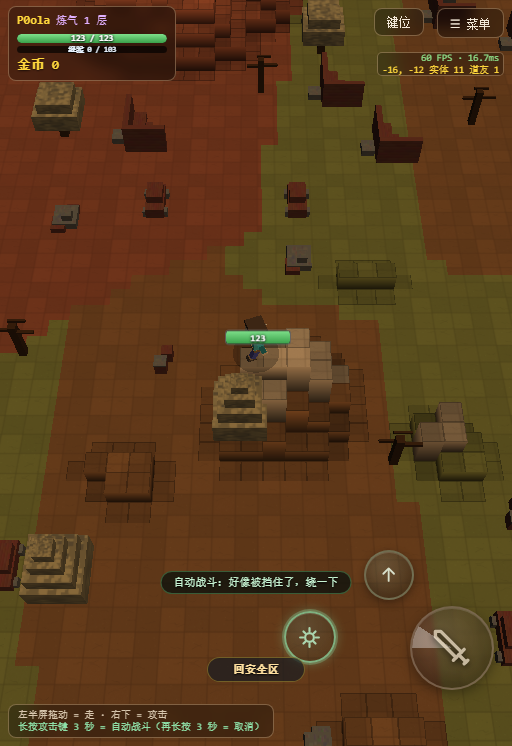
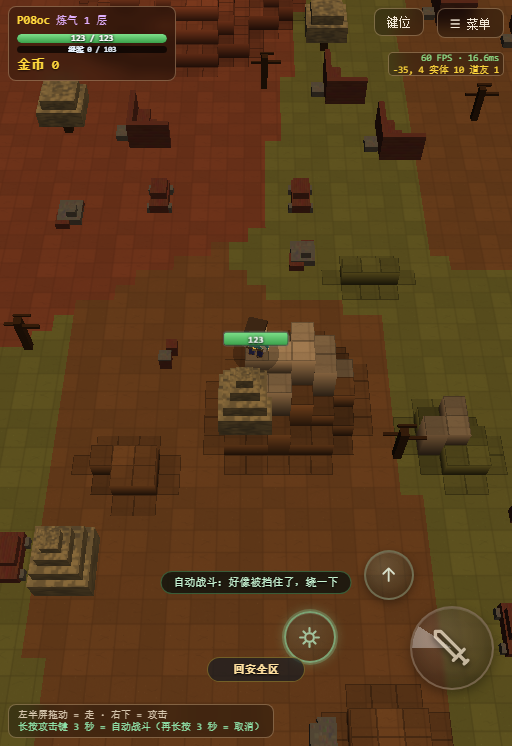
a wider axe swing, and both hands on it
Two things the user could not see.

The lateral channels in the chop keyframes are small - the arm's sideways angle is a tenth of
a radian and the body twist a fifth - which is between six and eleven degrees, far too little
to read as a swing to one side. For the axe those three channels are multiplied by two and a
half, giving about twenty-six degrees of body twist and a correspondingly wider arm arc. Only
the axe is scaled, so no other weapon changes.

And the weapon is named two-handed, but the left arm was following its own keyframe channel,
which put it somewhere unrelated to the axe. For axes and hammers the left arm now tracks the
right arm's lift and is tucked toward the centre line, so both hands read as gripping the same
haft.

Measured: the left and right poses now differ by two radians of combined rotation, against
eight tenths before, and the left arm sits at seven tenths of the right arm's angle.

diff --git a/web/core/game.js b/web/core/game.js
@@ -5003,13 +5003,28 @@ function heroAtkPose(heroObj, atkT, bx, bz, byaw, look, baseY, side) {
   else { ee = e; }
   var A = KF[f], B = KF[f + 1];
   var lp = function (i) { return A[i] + (B[i] - A[i]) * ee; };
+  /* ★ round377（用户："左右的幅度不够大，看不出来"）
+     ★ 侧向的三个通道（手臂左右/手臂张角/身体扭转）普遍只有 ±0.1~0.2 弧度
+       ≈ 6~11 度 ✗ 屏幕上根本看不出"左劈"还是"右劈"✓
+     ★ 斧头单独放大 2.6 倍 ✗ 其它武器不动 ✓（免得影响已有手感 ✓）*/
+  var _latK = (look === 'axe') ? 2.6 : 1.0;
   heroObj.armR.rotation.x = lp(0);
-  heroObj.armR.rotation.y = lp(1);
-  heroObj.armR.rotation.z = lp(2);
+  heroObj.armR.rotation.y = lp(1) * _latK;
+  heroObj.armR.rotation.z = lp(2) * _latK;
   if (heroObj.sw) { heroObj.sw.rotation.x = lp(3); }
   heroObj.g.rotation.x = lp(4);
-  heroObj.g.rotation.y = byaw + lp(5);
-  heroObj.armL.rotation.x = lp(6);
+  heroObj.g.rotation.y = byaw + lp(5) * _latK;
+  /* ★ round377（用户："名字叫双手斧，应该是两个手握着"）
+     ★ 现在左手有自己的通道（lp(6)）✗ 和右手完全不同步 ✗ 看着像单手挥 ✓
+     ★ 斧/锤：左手【跟着右手抬】+ 往中线收 ✓ 就是两手握同一把柄 ✓
+       （只看 x/z 两个通道 ✗ 关键帧里没有左臂的 y，做不出更细的握法 ✓）*/
+  if (look === 'axe' || look === 'hammer') {
+    heroObj.armL.rotation.x = lp(0) * 0.82 + 0.10;
+    heroObj.armL.rotation.z = 0.34;
+  } else {
+    heroObj.armL.rotation.x = lp(6);
+    heroObj.armL.rotation.z = 0;
+  }
   heroObj.legL.rotation.x = lp(7);
   heroObj.legR.rotation.x = lp(8);
   heroObj.g.position.x = bx + Math.sin(byaw) * lp(9);

diff --git a/tools/smoke_p0.js b/tools/smoke_p0.js
@@ -220,7 +220,8 @@ const PW = 'abc123456';
     'for (var i = 0; i < 3; i++) { diff += Math.abs(a[i] - b[i]); }',
     'var bad = false;',
     'for (var j = 0; j < 3; j++) { if (!isFinite(a[j]) || !isFinite(b[j])) { bad = true; } }',
-    'return JSON.stringify({ diff: +diff.toFixed(3), nan: bad,',
+    'var lL = h.armL.rotation.x, rL = h.armR.rotation.x;',
+    'return JSON.stringify({ diff: +diff.toFixed(3), nan: bad, armL: +lL.toFixed(2), armR: +rL.toFixed(2),',
     '  a: a.map(function(v){return +v.toFixed(2);}),',
     '  b: b.map(function(v){return +v.toFixed(2);}) });',
   ].join(''));
